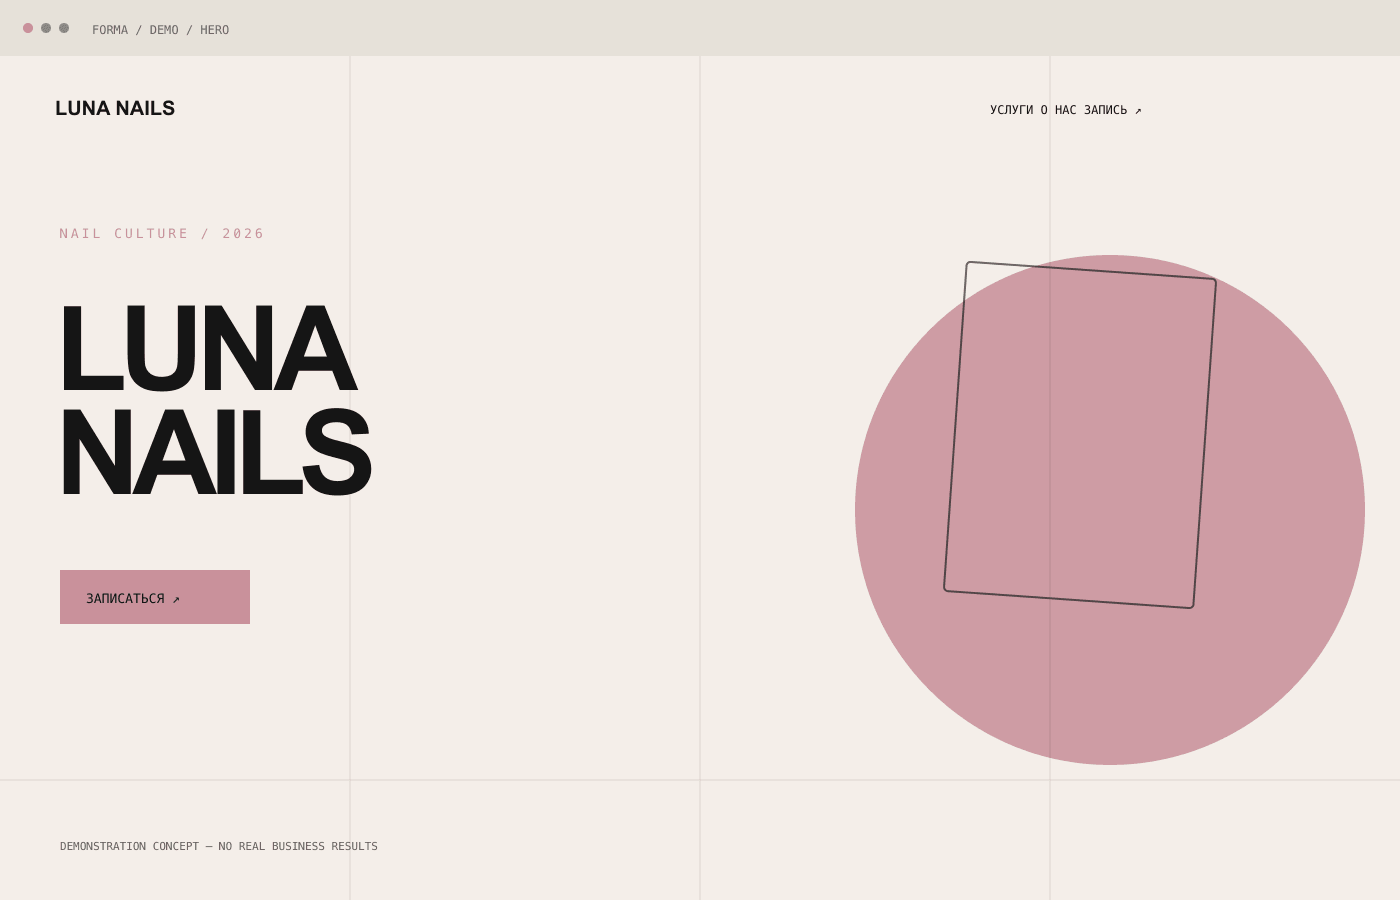
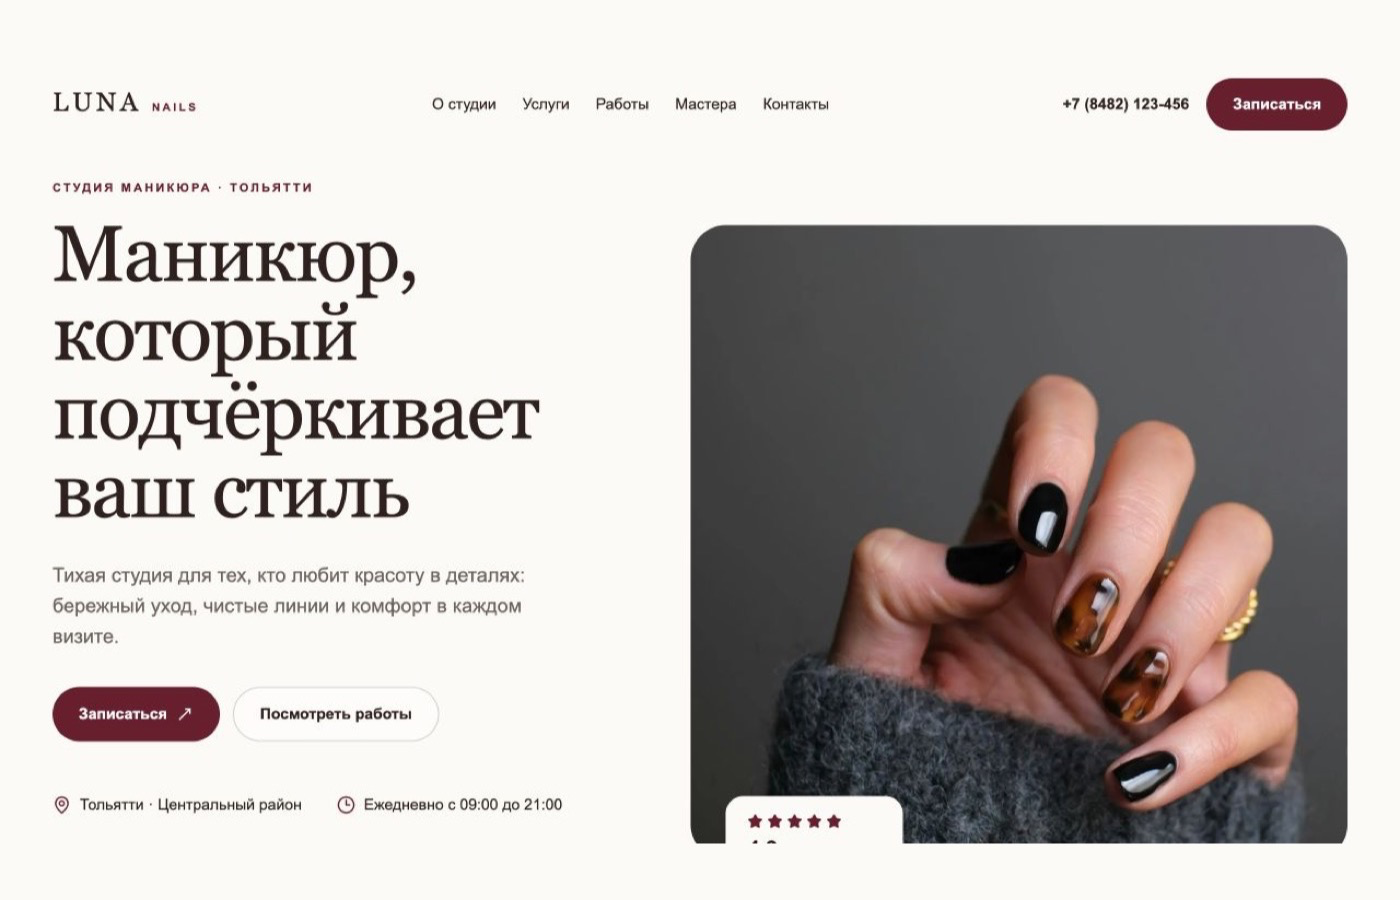
Refresh Luna Nails visuals

diff --git a/src/components/common/BrowserMockup.tsx b/src/components/common/BrowserMockup.tsx
@@ -7,7 +7,7 @@ const slides = [
     name: "LUNA NAILS",
     note: "NAIL STUDIO / TOGLIATTI",
     color: "#671F2D",
-    title: "СТИЛЬ\nВ ДЕТАЛЯХ",
+    title: "ВАШ СТИЛЬ\nВ ДЕТАЛЯХ",
   },
   {
     name: "ELEMENT LASER",
